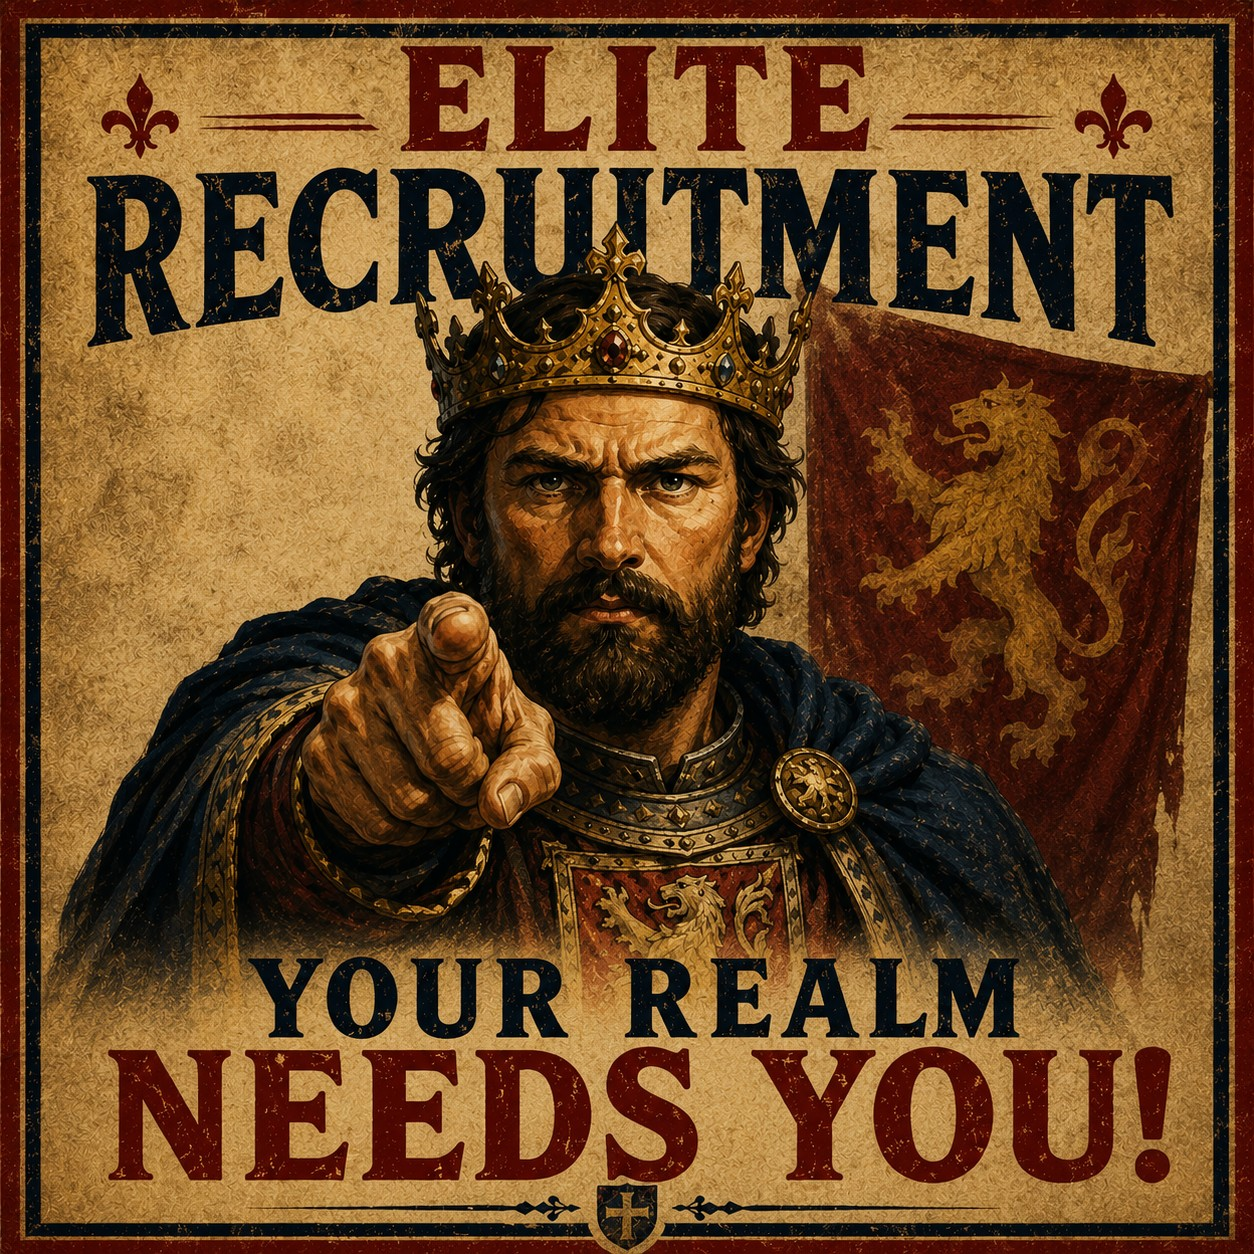
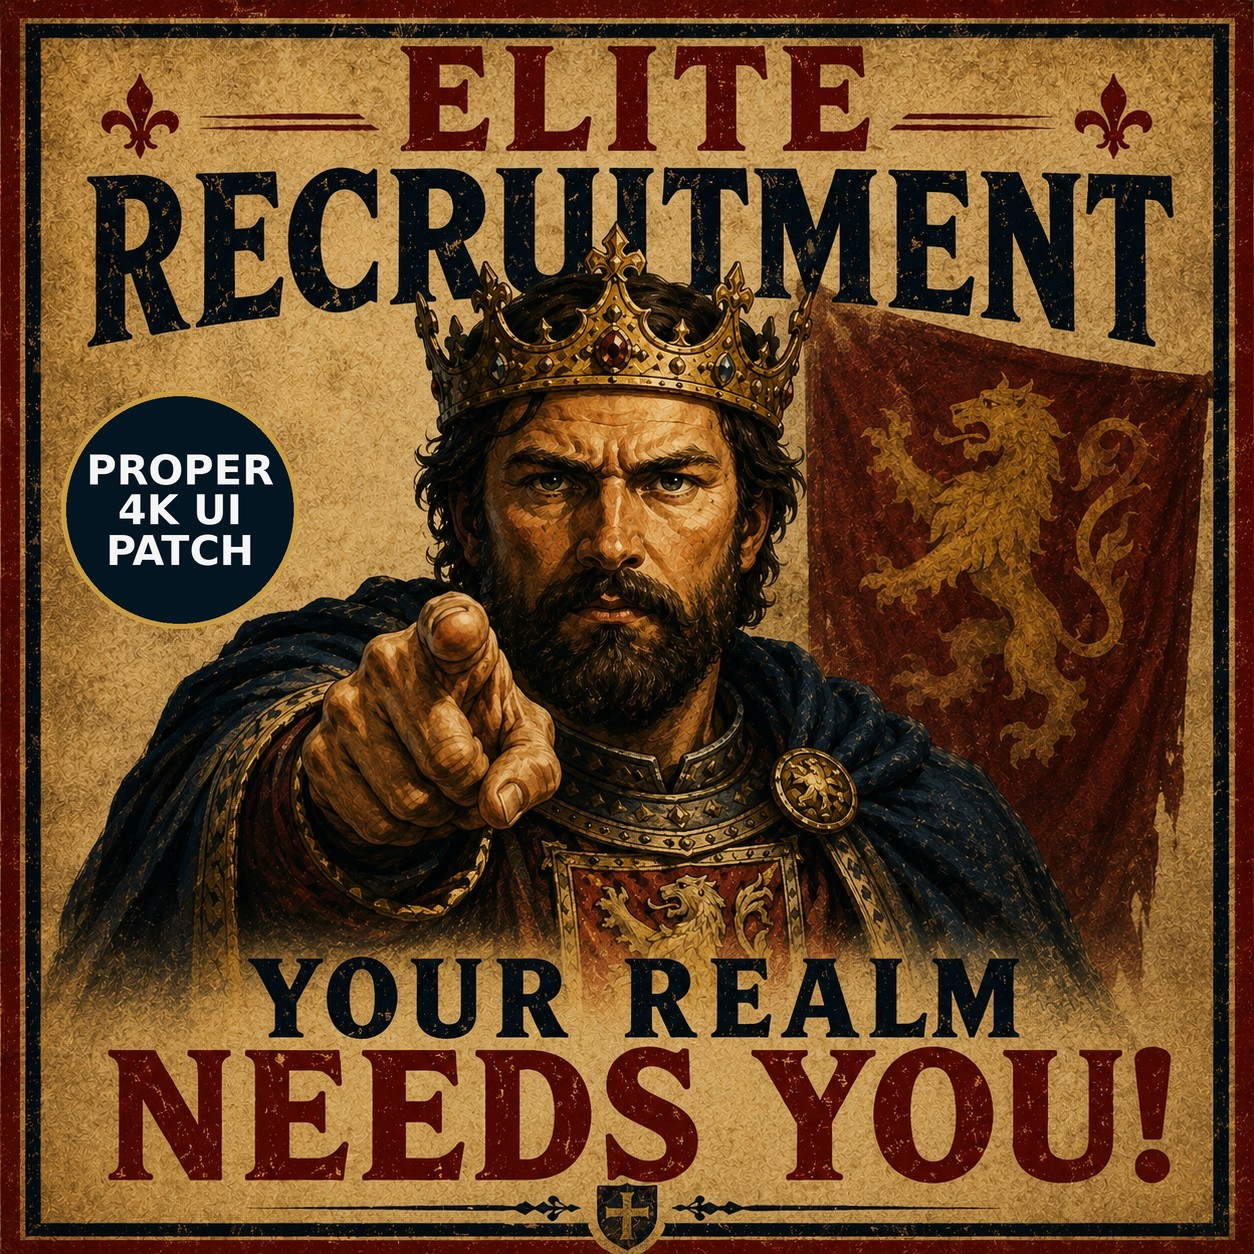
v1.0.3 - Sub-mod thumbnails
Add badged thumbnails for the Debug and Proper4KUI Patch sub-mods.

Changed region(s): [[0.0311, 0.311, 0.2488, 0.4976]]

diff --git a/AGENTS.md b/AGENTS.md
@@ -164,7 +164,7 @@ body.
   the vanilla script is an invaluable reference (same syntax as the mod).
   Common locations:
   - Steam: `C:\Program Files (x86)\Steam\steamapps\common\Crusader Kings II\`
-  - GOG: `C:\Games\GOG Galaxy\Crusader Kings II\`
+  - GOG: `C:\Program Files (x86)\GOG Galaxy\Games\Crusader Kings II\`
 
   Key folders:
   - `events/` — vanilla events; the canonical syntax reference

diff --git a/CHANGELOG.md b/CHANGELOG.md
@@ -9,6 +9,15 @@ release, which will be tagged `1.0.0`.
 
 ## [Unreleased]
 
+## [1.0.3] - 2026-07-13
+
+### Added
+- **Sub-mod thumbnails.** The Debug and Proper4KUI Patch sub-mods now
+  have their own thumbnails (badged variants of the base thumbnail).
+
+### Changed
+- Small descriptor and doc housekeeping.
+
 ## [1.0.2] - 2026-06-07
 
 ### Added
